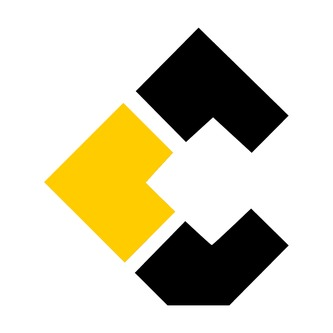
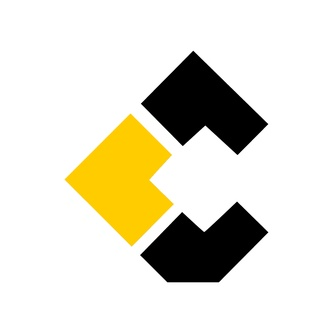
Replace navy with black, vary dark sections, fix monogram padding
- Change --color-brand-secondary from Deep Navy to true Black; every
  derived neutral (text, borders, steel) shifts automatically
- Rename the Benefits "navy" variant to "dark"; keep the dark band on
  only one page (website-development) instead of every page, so
  sections vary and some pages stay plain white
- Give full-stack-development and start-your-project a yellow closing
  section, so every page now ends on yellow before the footer
- Regenerate the monogram/favicon files with generous, vertically
  symmetric padding so it can't get clipped in any rounded/masked
  context

diff --git a/unzii-website/src/app/full-stack-development/page.tsx b/unzii-website/src/app/full-stack-development/page.tsx
@@ -1,5 +1,6 @@
 import type { Metadata } from "next";
 import { ServiceHero } from "@/components/services/ServiceHero";
+import { FinalCTA } from "@/components/shared/FinalCTA";
 
 export const metadata: Metadata = {
   title: "Full Stack Development",
@@ -9,14 +10,22 @@ export const metadata: Metadata = {
 
 export default function FullStackDevelopmentPage() {
   return (
-    <ServiceHero
-      eyebrow="Full Stack Development"
-      badge="Coming Soon"
-      heading="Full Stack Applications, Built From Idea to Launch"
-      description="We're expanding beyond websites into full product engineering, real backends, databases, and business logic built around what your product needs."
-      primaryLabel="Get Notified"
-      primaryHref="/contact"
-      background="bg-surface-tint"
-    />
+    <>
+      <ServiceHero
+        eyebrow="Full Stack Development"
+        badge="Coming Soon"
+        heading="Full Stack Applications, Built From Idea to Launch"
+        description="We're expanding beyond websites into full product engineering, real backends, databases, and business logic built around what your product needs."
+        primaryLabel="Get Notified"
+        primaryHref="/contact"
+        background="bg-surface-tint"
+      />
+      <FinalCTA
+        heading="Want to be first in line when this launches?"
+        description="Tell us a bit about what you're building and we'll reach out as soon as full stack development is ready."
+        primaryLabel="Get Notified"
+        primaryHref="/contact"
+      />
+    </>
   );
 }

diff --git a/unzii-website/src/app/globals.css b/unzii-website/src/app/globals.css
@@ -1,10 +1,10 @@
 @import "tailwindcss";
 
 :root {
-  /* Brand — the palette is yellow / navy / black only. Every neutral below is a
-     tint or shade of Deep Navy via color-mix, never an independent grey swatch. */
-  --color-brand-secondary: #101827; /* Deep Navy */
-  --color-brand-steel: color-mix(in srgb, var(--color-brand-secondary) 68%, white); /* Navy, lightened — secondary text/icon accents */
+  /* Brand — the palette is yellow / black / white only. Every neutral below is a
+     tint or shade of this Black via color-mix, never an independent grey swatch. */
+  --color-brand-secondary: #0a0a0c; /* Black */
+  --color-brand-steel: color-mix(in srgb, var(--color-brand-secondary) 68%, white); /* Black, lightened — secondary text/icon accents */
   --color-brand-bg: #ffffff; /* White — replaces the old Soft Grey brand fill */
   --color-brand-yellow: #ffcc00; /* Yellow — primary buttons, footer, value-prop band */
   --color-brand-yellow-light: color-mix(in srgb, var(--color-brand-yellow) 16%, white); /* Pale yellow — alternating section bands */

diff --git a/unzii-website/src/components/services/Benefits.tsx b/unzii-website/src/components/services/Benefits.tsx
@@ -13,7 +13,7 @@ export interface BenefitItem {
 const sectionBg = {
   white: "bg-surface",
   "yellow-light": "bg-brand-yellow-light",
-  navy: "bg-brand-secondary",
+  dark: "bg-brand-secondary",
 };
 
 export function Benefits({
@@ -27,9 +27,9 @@ export function Benefits({
   heading: string;
   description?: string;
   items: BenefitItem[];
-  variant?: "white" | "yellow-light" | "navy";
+  variant?: "white" | "yellow-light" | "dark";
 }) {
-  const dark = variant === "navy";
+  const dark = variant === "dark";
 
   return (
     <section className={cn(sectionBg[variant], "py-24 lg:py-32")}>

diff --git a/unzii-website/src/app/seo/page.tsx b/unzii-website/src/app/seo/page.tsx
@@ -169,7 +169,6 @@ export default function SeoPage() {
         heading="Why growing businesses invest in SEO with Unzii"
         description="Search visibility is a long term asset. Here's what that investment gets you."
         items={benefits}
-        variant="navy"
       />
       <Process id="process" heading="How we approach SEO" steps={processSteps} />
       <Features

diff --git a/unzii-website/src/app/website-development/page.tsx b/unzii-website/src/app/website-development/page.tsx
@@ -111,7 +111,7 @@ export default function WebsiteDevelopmentPage() {
         heading="Why businesses choose Unzii for their website"
         description="A website is an investment. Here's what that investment gets you."
         items={benefits}
-        variant="navy"
+        variant="dark"
       />
       <Features
         heading="What's included in every website"

diff --git a/unzii-website/src/app/start-your-project/page.tsx b/unzii-website/src/app/start-your-project/page.tsx
@@ -60,7 +60,12 @@ export default function StartYourProjectPage() {
         </Container>
       </section>
 
-      <FAQ eyebrow="FAQ" heading="Before you submit" faqs={faqs} />
+      <FAQ
+        eyebrow="FAQ"
+        heading="Before you submit"
+        faqs={faqs}
+        background="bg-brand-yellow-light"
+      />
     </>
   );
 }

diff --git a/unzii-website/src/app/unziiprism/page.tsx b/unzii-website/src/app/unziiprism/page.tsx
@@ -77,7 +77,6 @@ export default function UnziiprismPage() {
         heading="What Unziiprism delivers"
         description="Everything a brand needs to look and feel consistent, wherever it shows up."
         items={benefits}
-        variant="navy"
       />
 
       <Overview
